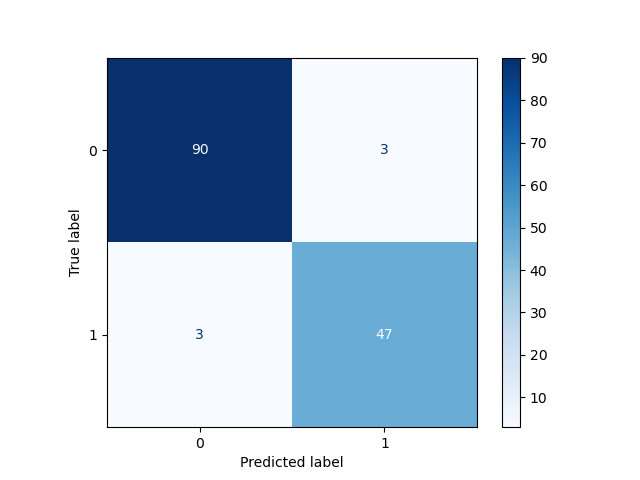
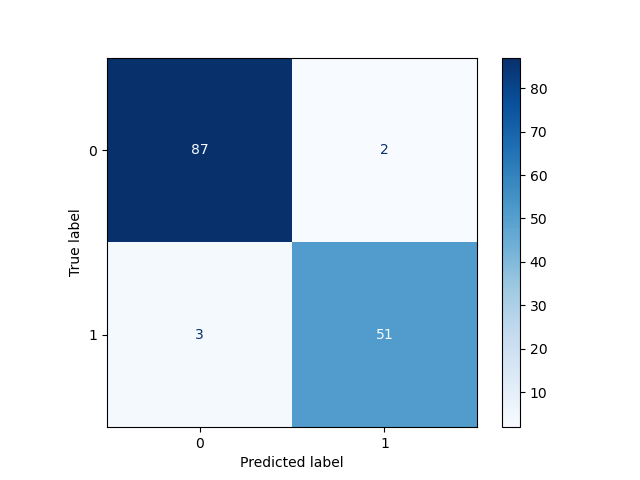
upd: dvc_hp_tune

diff --git a/model.py b/model.py
@@ -1,13 +1,37 @@
 import json
 
 import pandas as pd
-from sklearn.ensemble import GradientBoostingClassifier
+import numpy as np
+from sklearn.ensemble import RandomForestClassifier
 from sklearn.metrics import accuracy_score, f1_score, recall_score, precision_score
+from sklearn.model_selection import GridSearchCV, cross_val_score, KFold
 
 def train_model(X_train, y_train):
-    model = GradientBoostingClassifier(random_state=42)
-    model.fit(X_train, y_train)
-    return model
+    with open('best_params_.json', 'r') as f:
+        best_params = json.load(f)
+    rfc = RandomForestClassifier(
+        max_depth=best_params['max_depth'],
+        n_estimators=best_params['n_estimators'],
+        max_features=best_params['max_features'],
+        min_samples_leaf=best_params['min_samples_leaf'],
+        random_state=42
+    )
+    rfc.fit(X_train, y_train)
+    return rfc
+
+def tune_model(X, y):
+    rfc = RandomForestClassifier(random_state=42)
+    params = {
+        'max_depth': [2, 5, 10],
+        'n_estimators': [100, 200, 300, 400, 500],
+        'max_features': [10, 20, 30 , 40],
+        'min_samples_leaf': [1, 2, 4]
+    }
+    kf = KFold(n_splits=10, shuffle=True, random_state=42)
+    clf = GridSearchCV(estimator=rfc, param_grid=params, return_train_score=False, cv=kf, scoring='accuracy')
+    clf.fit(X, y)
+    with open('best_params_.json', 'w') as fp:
+        json.dump(clf.best_params_, fp) 
 
 def evaluate_model(model, X_test, y_test, float_precesion=4):
     y_pred = model.predict(X_test)
@@ -22,7 +46,6 @@ def evaluate_model(model, X_test, y_test, float_precesion=4):
         "recall": recall,
         "f1_score": f1,
     }
-
     return json.loads(
         json.dumps(metrics), parse_float=lambda x: round(float(x), float_precesion)
     )

diff --git a/train.py b/train.py
@@ -4,7 +4,7 @@ import pandas as pd
 from sklearn.model_selection import train_test_split
 
 from metrics_and_plots import plot_confusion_matrix, save_metrics
-from model import evaluate_model, train_model
+from model import evaluate_model, train_model, tune_model
 from utils import PROCESSED_DATASET, TARGET_COL
 
 def load_data(file_path):
@@ -15,21 +15,10 @@ def load_data(file_path):
 
 def main():
     X, y = load_data(PROCESSED_DATASET)
-
-    # Split data into training and test sets
-    X_train, X_test, y_train, y_test = train_test_split(X, y, random_state=1993)
-
-    # Train the model using the training set
+    X_train, X_test, y_train, y_test = train_test_split(X, y, random_state=42)
     model = train_model(X_train, y_train)
-
-    # Calculate test set metrics
     metrics = evaluate_model(model, X_test, y_test)
-
-    print("====================Test Set Metrics==================")
-    print(json.dumps(metrics, indent=2))
-    print("======================================================")
-
-    # Save metrics into json file
+    json.dumps(metrics, indent=2)
     save_metrics(metrics)
     plot_confusion_matrix(model, X_test, y_test)
 

diff --git a/hp_tune.py b/hp_tune.py
@@ -1,0 +1,13 @@
+from sklearn.model_selection import train_test_split
+
+from model import tune_model
+from utils import PROCESSED_DATASET, TARGET_COL
+from train import load_data
+
+def main():
+    X, y = load_data(PROCESSED_DATASET)
+    X_train, X_test, y_train, y_test = train_test_split(X, y, random_state=42)
+    tune_model(X_train, y_train)
+
+if __name__ == '__main__':
+    main()
